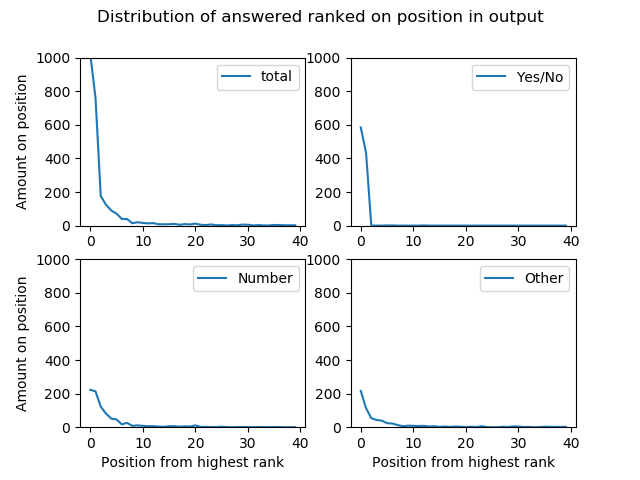
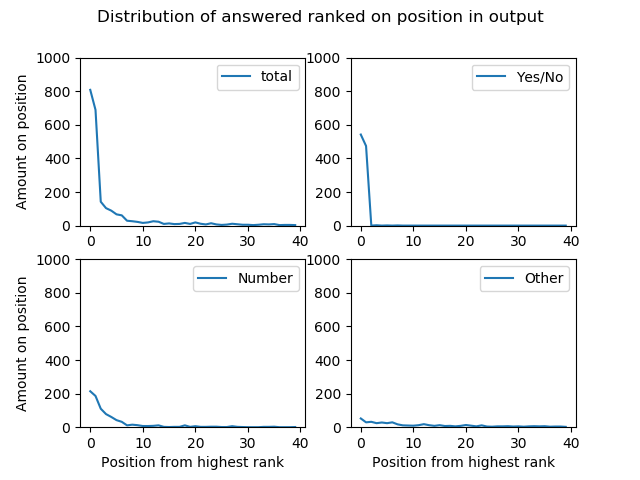
Validation + Training together

diff --git a/rnn3.py b/rnn3.py
@@ -78,19 +78,29 @@ def one_hot_encoding(data):
 
 # to speed-up training, max = len(x_train)
 # training_size = len(x_train)
-training_size = 48000
+training_size = 1000000
 # test_size = len(x_test)
 test_size = 100000
 # validation test_size
-validation_size = 1000
+validation_size = 100000
 
 x_train = x_train[:training_size]
 x_test = x_test[:test_size]
 x_validation = x_validation[:validation_size]
 
+x_train = x_train + x_validation
+x_train = x_train[:57024]
 # for ease, separate the data
+
+# validation
+
+img_ids_validation = [x[0] for x in x_validation]
+questions_validation = [x[1] for x in x_validation]
 # training
-answers_train = y_train[:training_size]
+answers_train = y_train
+answers_validation = y_validation
+answers_train = answers_train + answers_validation
+answers_train = answers_train [:57024]
 img_ids_train = [x[0] for x in x_train]
 questions_train = [x[1] for x in x_train]
 
@@ -98,6 +108,7 @@ questions_train = [x[1] for x in x_train]
 question_train_equal=[]
 q_length = []
 length_longest_question = len(max(questions_train, key = len))+1
+
 
 for question in questions_train:
     length = len(question)
@@ -109,16 +120,11 @@ for question in questions_train:
 nwords += 1
 questions_train = question_train_equal
 
-
 # test
 answers_test = y_test[:test_size]
 img_ids_test = [x[0] for x in x_test]
 questions_test = [x[1] for x in x_test]
 
-# validation
-answers_validation = y_validation
-img_ids_validation = [x[0] for x in x_validation]
-questions_validation = [x[1] for x in x_validation]
 
 # combine questions and answers to [ [question[i], answer[i]], img_id[i]] (for every i)
 training_data = [[questions_train[i], answers_train[i], img_ids_train[i], q_length[i]] for i in range(len(questions_train))]
@@ -127,14 +133,13 @@ training_data = np.asarray(training_data)
 test_data = [[questions_test[i], answers_test[i], img_ids_test[i]] for i in range(len(questions_test))]
 test_data = np.asarray(test_data)
 
-validation_data = [[questions_validation[i], answers_validation[i], img_ids_validation[i]] for i in range(len(questions_validation))]
-validation_data = np.asarray(validation_data)
+# validation_data = [[questions_validation[i], answers_validation[i], img_ids_validation[i]] for i in range(len(questions_validation))]
+# validation_data = np.asarray(validation_data)
 
 class RNN(nn.Module):
     def __init__(self, vocab_size, embed_size, img_size, hidden_size, num_layers, num_classes):
         super(RNN, self).__init__()
         self.relu = nn.ReLU()
-
         self.embed = nn.Embedding(vocab_size, embed_size)
 
         self.hidden_size = hidden_size
@@ -150,31 +155,13 @@ class RNN(nn.Module):
         self.img_output = nn.Linear(img_size, num_classes)
 
     def forward(self, x, image, batch_size, hidden, q_length):
-
-        #embed word vectors
         embedded = self.embed(x)
-
-        # Forward propagate RNN
         out, _ = self.lstm(embedded)
-
-        #image to 5176
-        # image_out = self.img_output(image)
-        # Decode hidden state of last time step
         out = torch.gather(out, 1, q_length.view(-1,1,1).expand(batch_size,1,hidden))
-
         concat = torch.cat((image, out[:, -1, :]), 1)
-
         image_with_hidden = self.concat(concat)
-
         image_with_hidden = self.relu(image_with_hidden)
-
-        # Decode hidden state of last time step
         out = self.fc(image_with_hidden)
-        #concatenate hidden state and image
-        # out = torch.cat((out,image_out),1)
-
-        # out = self.fc(out)
-
         return out
 
 
@@ -252,11 +239,6 @@ for comb in COMBI:
 
 
     for ITER in range(epochs):
-        if (ITER == 3 ):
-            optimizer = optim.Adam([
-                {'params': model.embed.parameters()     , 'lr': comb[0]},
-                {'params': model.fc.parameters()        , 'lr': 0.0001},
-                {'params': model.img_output.parameters(), 'lr': 0.0001}])
         train_loss = 0.0
         start = time.time()
         batches_count = 0
